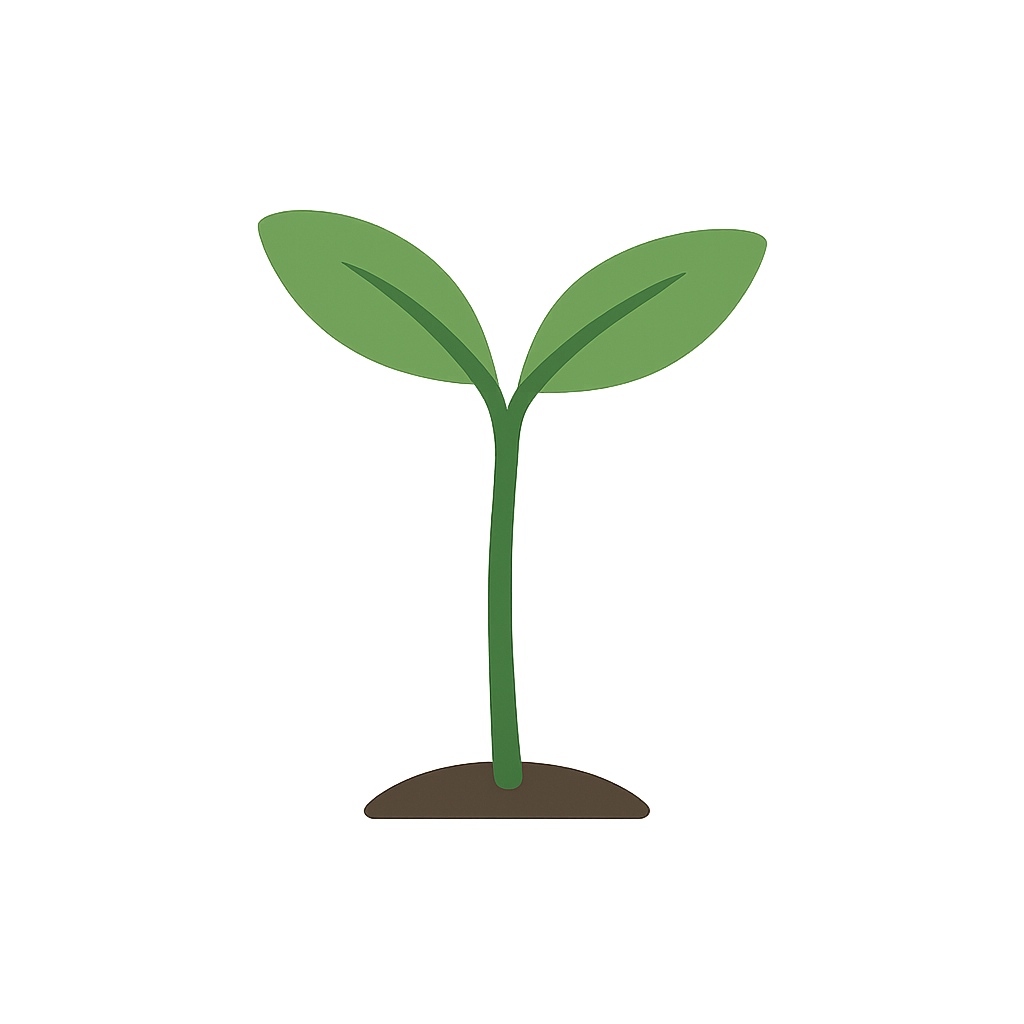
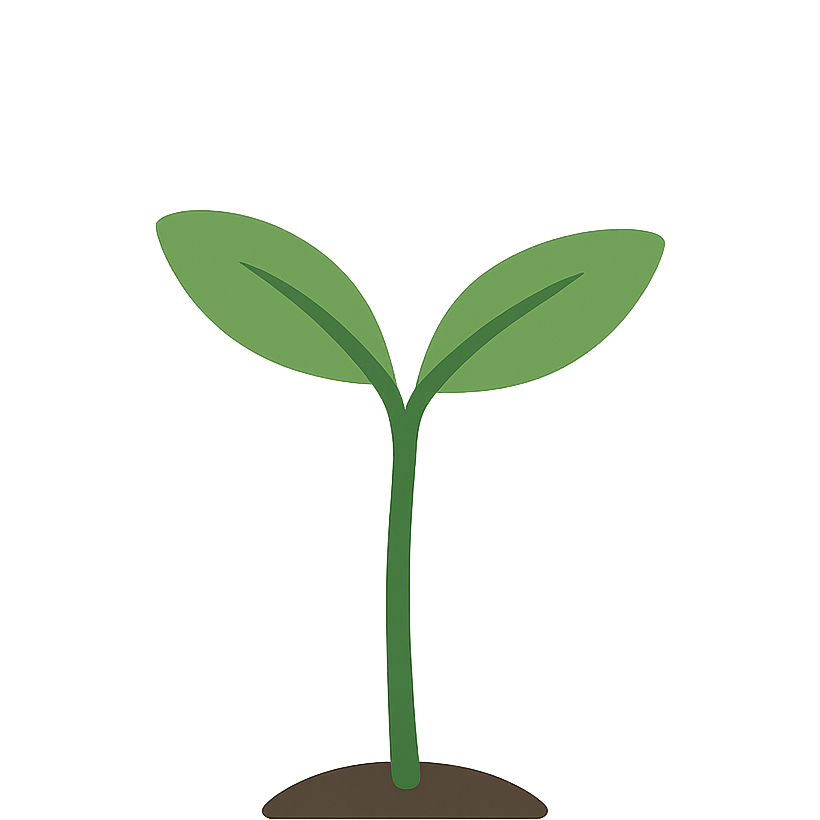
better centered elements

Changed region(s): [[0.1829, 0.1829, 0.8232, 0.6402], [0.3049, 0.6402, 0.6707, 1.0]]

diff --git a/styles.css b/styles.css
@@ -1,21 +1,36 @@
-body {
+/* Impostazioni base per eliminare scroll */
+html, body {
+    margin: 0;
+    padding: 0;
+    height: 100vh;
+    overflow: hidden;
+  }
+  
+  /* Sfondo */
+  body {
     background-image: url("imgs/background.jpg");
     background-size: cover;
     background-repeat: no-repeat;
     background-position: center;
-    margin: 10% 20% 0% 20%; /* top right bottom left */
+    display: flex;
+    flex-direction: column;
+    justify-content: space-between; /* spinge timer in alto, pianta in basso */
+    align-items: center;
+    padding: 20px 40px 0 40px;
+    box-sizing: border-box;
   }
   
-  
-
+  /* Sezione timer centrata in alto */
   #sez_timer {
     display: flex;
-    justify-content: center; /* centro orizzontale */
-    align-items: center;     /* centro verticale */
+    justify-content: center;
+    align-items: center;
+    gap: 20px;
   }
-
-  #plant {
-    display: flex;
-    justify-content: center; /* centro orizzontale */
-    align-items: center;     /* centro verticale */
+  
+  /* Pianta centrata in basso */
+  #plant img {
+    width: 200px;
+    height: auto;
   }
+  
